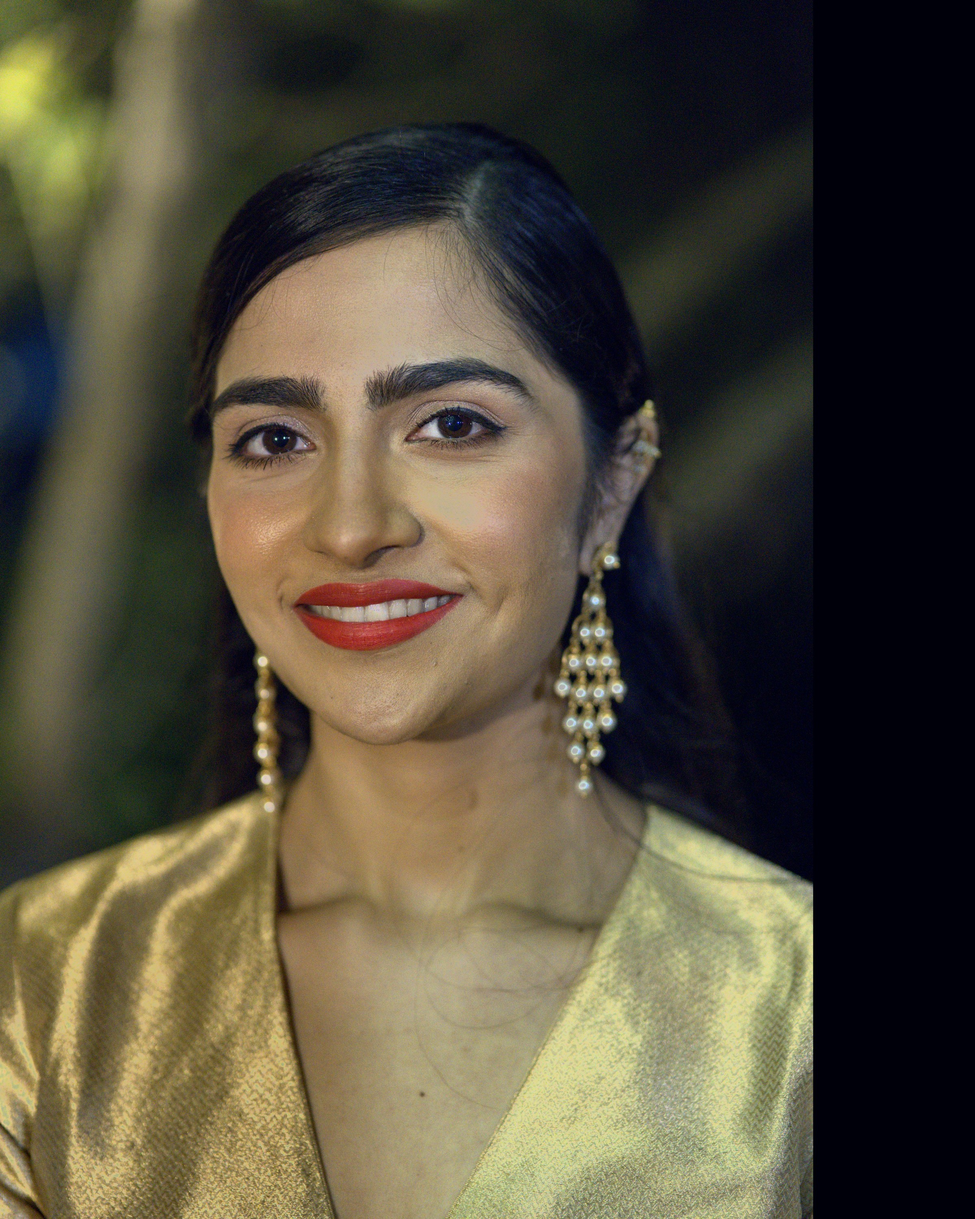
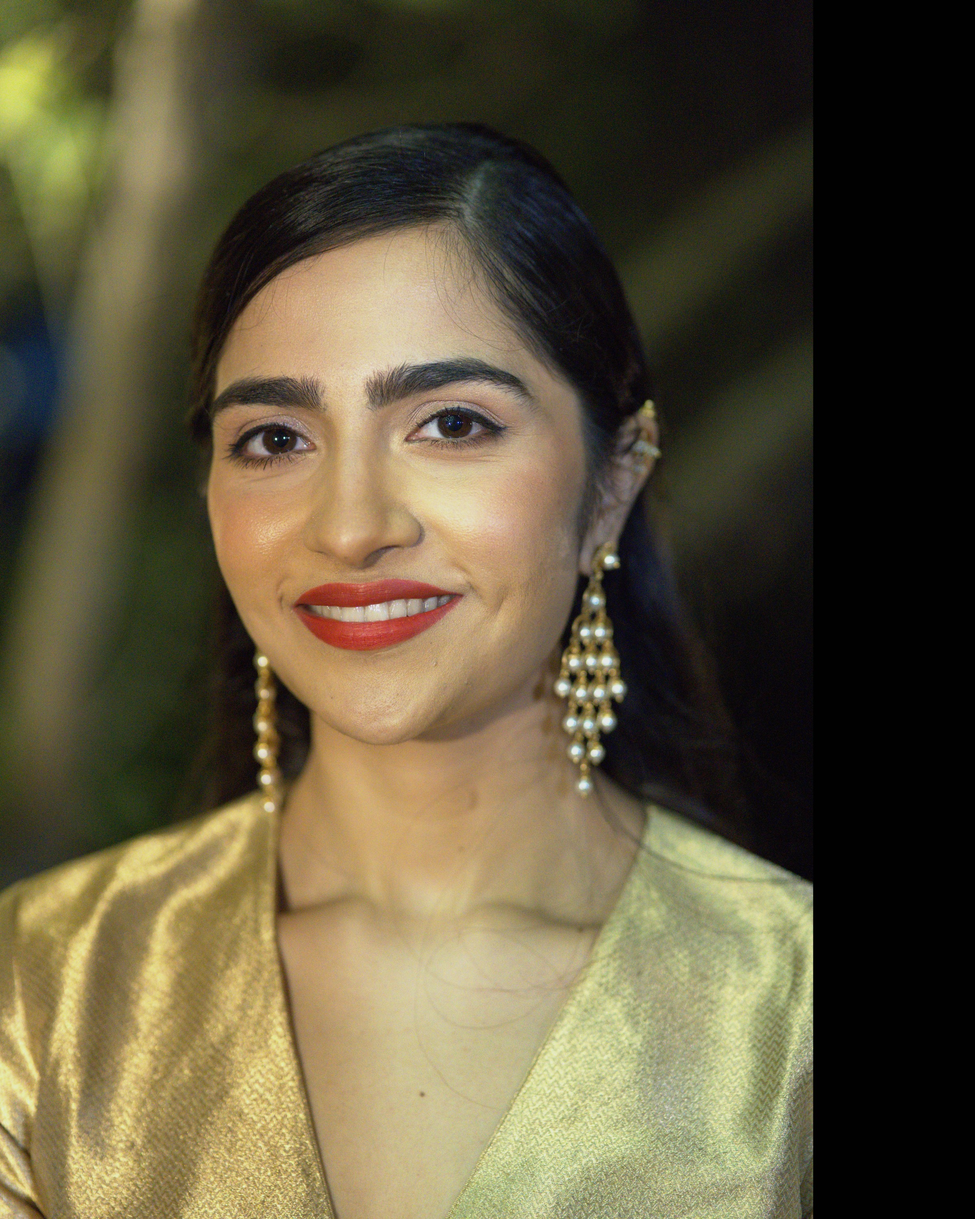
Rukmini v4 grade: global-only ops (no spatial masks) — fixes the two-sided face artifact from v3

Changed region(s): [[0.0, 0.217, 0.6562, 1.0]]

diff --git a/tools/grade4.py b/tools/grade4.py
@@ -1,0 +1,81 @@
+#!/usr/bin/env python3
+"""Rukmini grade v4 — GLOBAL-ONLY operations.
+Lesson from v3: any spatially-varying correction (skin masks, local
+even-tone, blurred region maps) creates visible seams and makes the two
+sides of a face look different. So v4 bans spatial ops entirely:
+every operation is applied identically to every pixel. The raw frame's
+own light does the work; we only polish.
+
+  1. Filmic highlight shoulder (smooth curve, all channels equally —
+     tames hot spots without shifting colour).
+  2. Tiny lift of the black point (soft cinematic toe).
+  3. One global white-balance nudge (kills the slight magenta cast).
+  4. Gentle global saturation.
+  5. Whisper of vignette (radially symmetric = cannot favour one side).
+"""
+import os
+import numpy as np
+from PIL import Image, ImageFilter, ImageDraw, ImageEnhance, ImageChops
+
+def filmic(x):
+    """Smooth tone curve: gentle toe, linear mids, soft shoulder.
+    Same curve on R,G,B — hue-preserving by construction."""
+    toe = 0.015                          # lift blacks a touch
+    x = toe + x * (1 - toe)
+    # soft shoulder above 0.72: compress overshoot smoothly
+    k = 0.72
+    hi = x > k
+    x_hi = x[hi]
+    x[hi] = k + (x_hi - k) * (1 - 0.35 * np.clip((x_hi - k) / (1 - k), 0, 1))
+    return np.clip(x, 0, 1)
+
+def grade(src, dst, crop45=None, max_w=2400):
+    img = Image.open(src).convert('RGB')
+
+    if crop45 is not None:                      # 16:9 → 4:5 around face centre
+        w, h = img.size
+        cw = int(h * 4 / 5)
+        x0 = int(max(0, min(w - cw, crop45 * w - cw / 2)))
+        img = img.crop((x0, 0, x0 + cw, h))
+    if img.width > max_w:
+        img = img.resize((max_w, int(img.height * max_w / img.width)), Image.LANCZOS)
+
+    a = np.asarray(img).astype(np.float32) / 255.0
+
+    # 1+2. filmic curve, identical per channel
+    for c in range(3):
+        a[..., c] = filmic(a[..., c])
+
+    # 3. global white balance: a touch less magenta, a touch warmer green
+    #    (single multiplier per channel — uniform across the whole frame)
+    a[..., 0] *= 0.992        # red down a hair
+    a[..., 1] *= 1.006        # green up a hair (anti-magenta)
+    a[..., 2] *= 0.996        # blue basically untouched
+    a = np.clip(a, 0, 1)
+
+    # 4. gentle global saturation (+4%)
+    L = (0.299 * a[..., 0] + 0.587 * a[..., 1] + 0.114 * a[..., 2])[..., None]
+    a = np.clip(L + (a - L) * 1.04, 0, 1)
+
+    img = Image.fromarray((a * 255).astype(np.uint8))
+    img = ImageEnhance.Contrast(img).enhance(1.02)
+
+    # 5. whisper vignette — radially symmetric, very subtle
+    w, h = img.size
+    mask = Image.new('L', (w // 8, h // 8), 0)
+    d = ImageDraw.Draw(mask)
+    d.ellipse([-w * .06, -h * .06, w / 8 * 1.28, h / 8 * 1.28], fill=255)
+    mask = mask.resize((w, h)).filter(ImageFilter.GaussianBlur(min(w, h) // 6))
+    dark = ImageEnhance.Brightness(img).enhance(0.90)
+    img = Image.composite(img, dark, mask)
+
+    img.save(dst, 'JPEG', quality=92)
+    print(dst, img.size, os.path.getsize(dst))
+
+if __name__ == '__main__':
+    base = os.path.dirname(os.path.dirname(os.path.abspath(__file__)))
+    grade('/tmp/grade-src/ruk-09185.jpg', f'{base}/assets/rukmini/feat-rukmini.jpg', crop45=.5)
+    grade('/tmp/grade-src/ruk-09185.jpg', f'{base}/assets/rukmini/rukmini-1.jpg', crop45=.50)
+    grade('/tmp/grade-src/ruk-09190.jpg', f'{base}/assets/rukmini/rukmini-2.jpg', crop45=.52)
+    grade('/tmp/grade-src/ruk-09191.jpg', f'{base}/assets/rukmini/rukmini-3.jpg', crop45=.55)
+    grade('/tmp/grade-src/ruk-09182.jpg', f'{base}/assets/rukmini/rukmini-4.jpg', crop45=.48)
